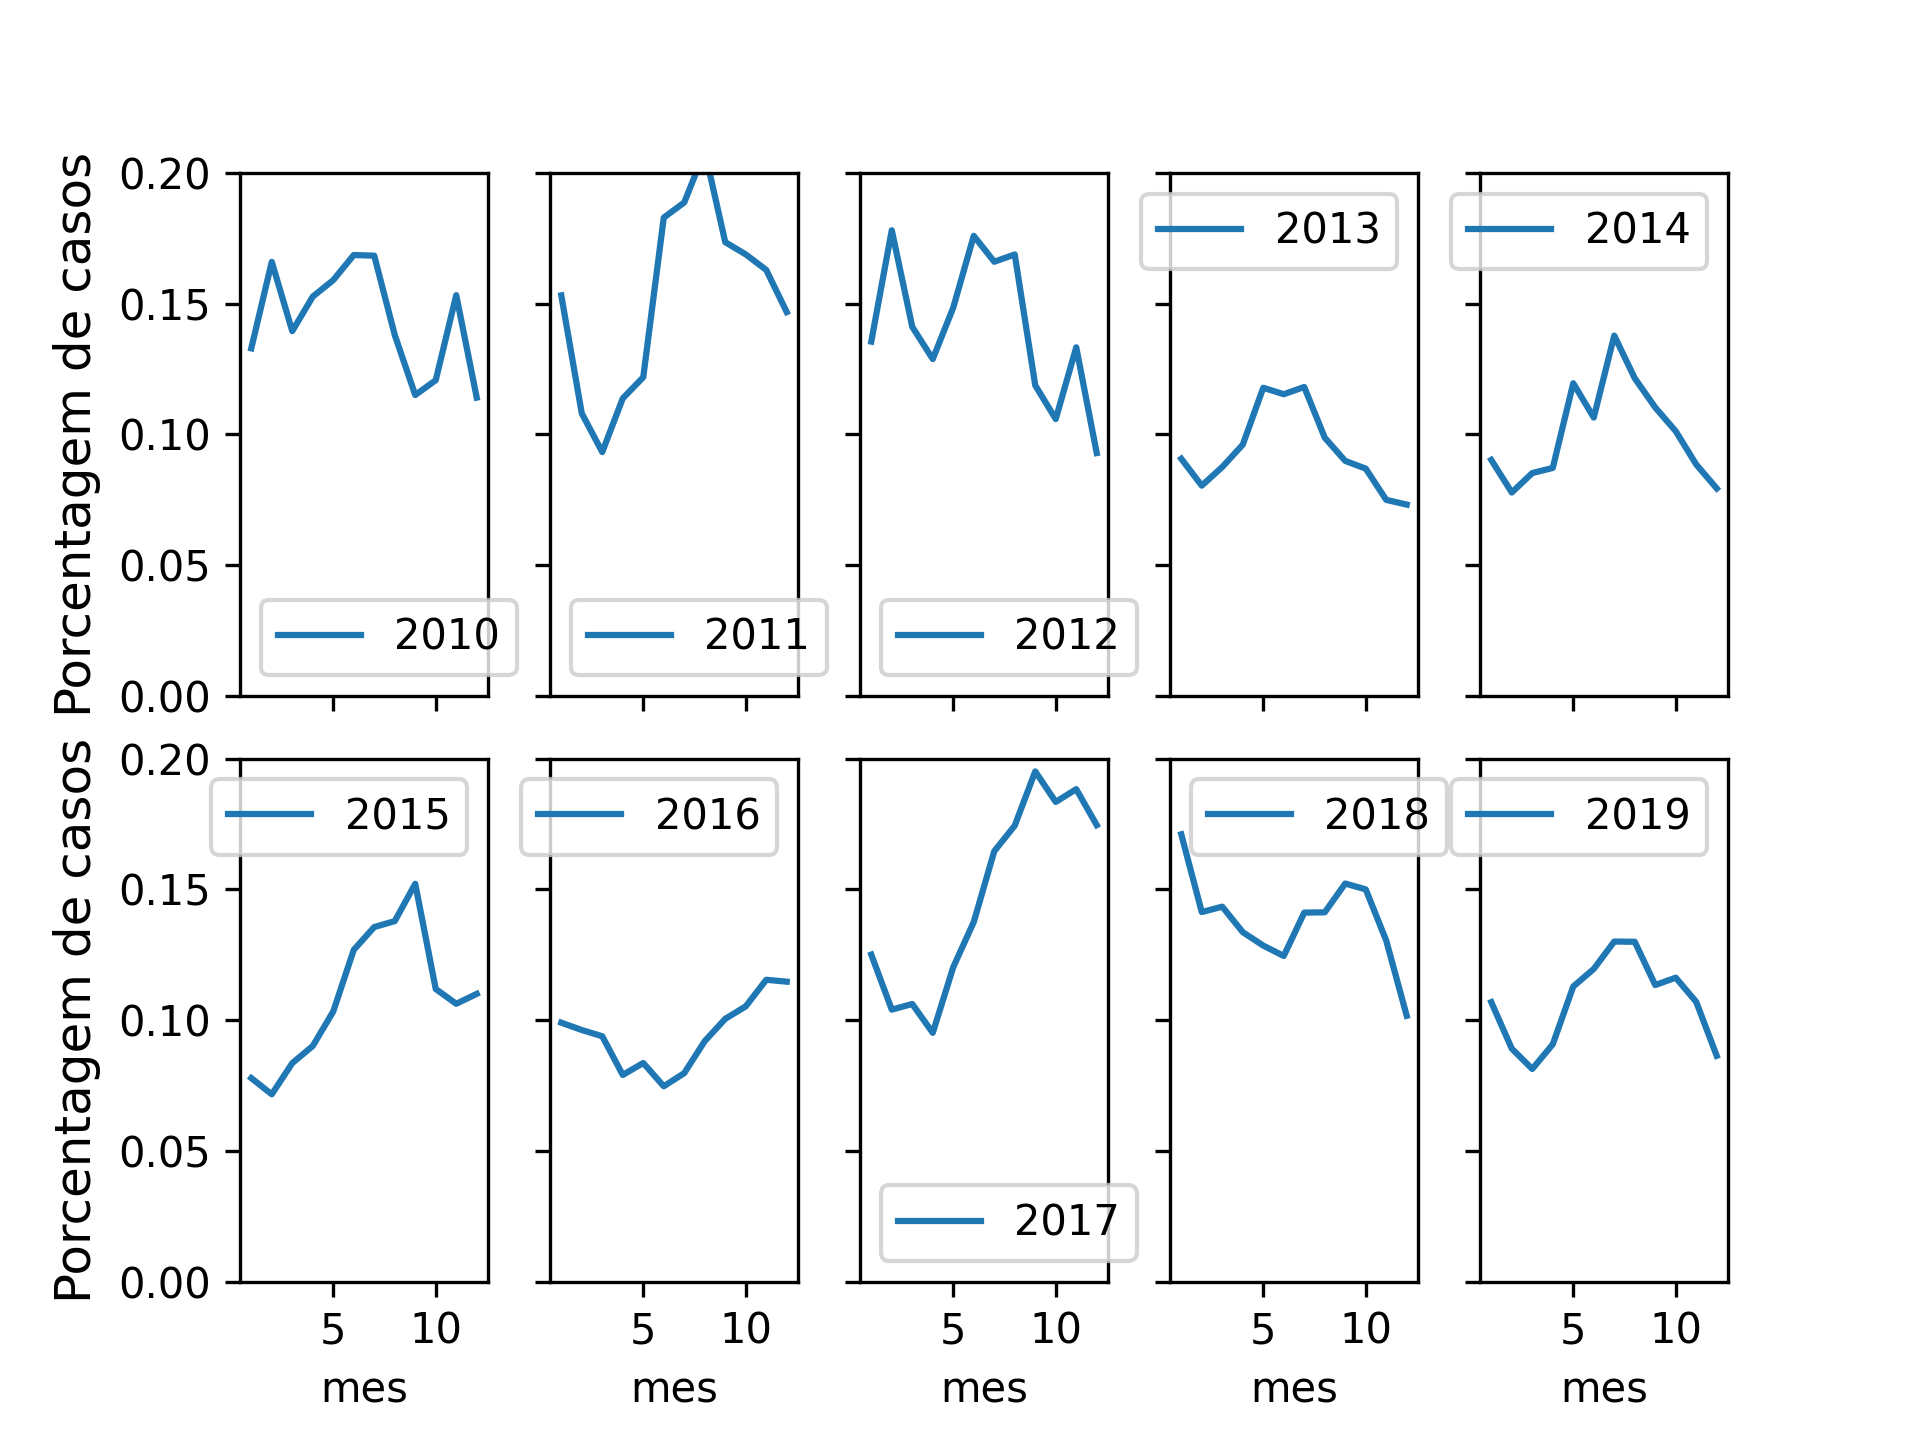
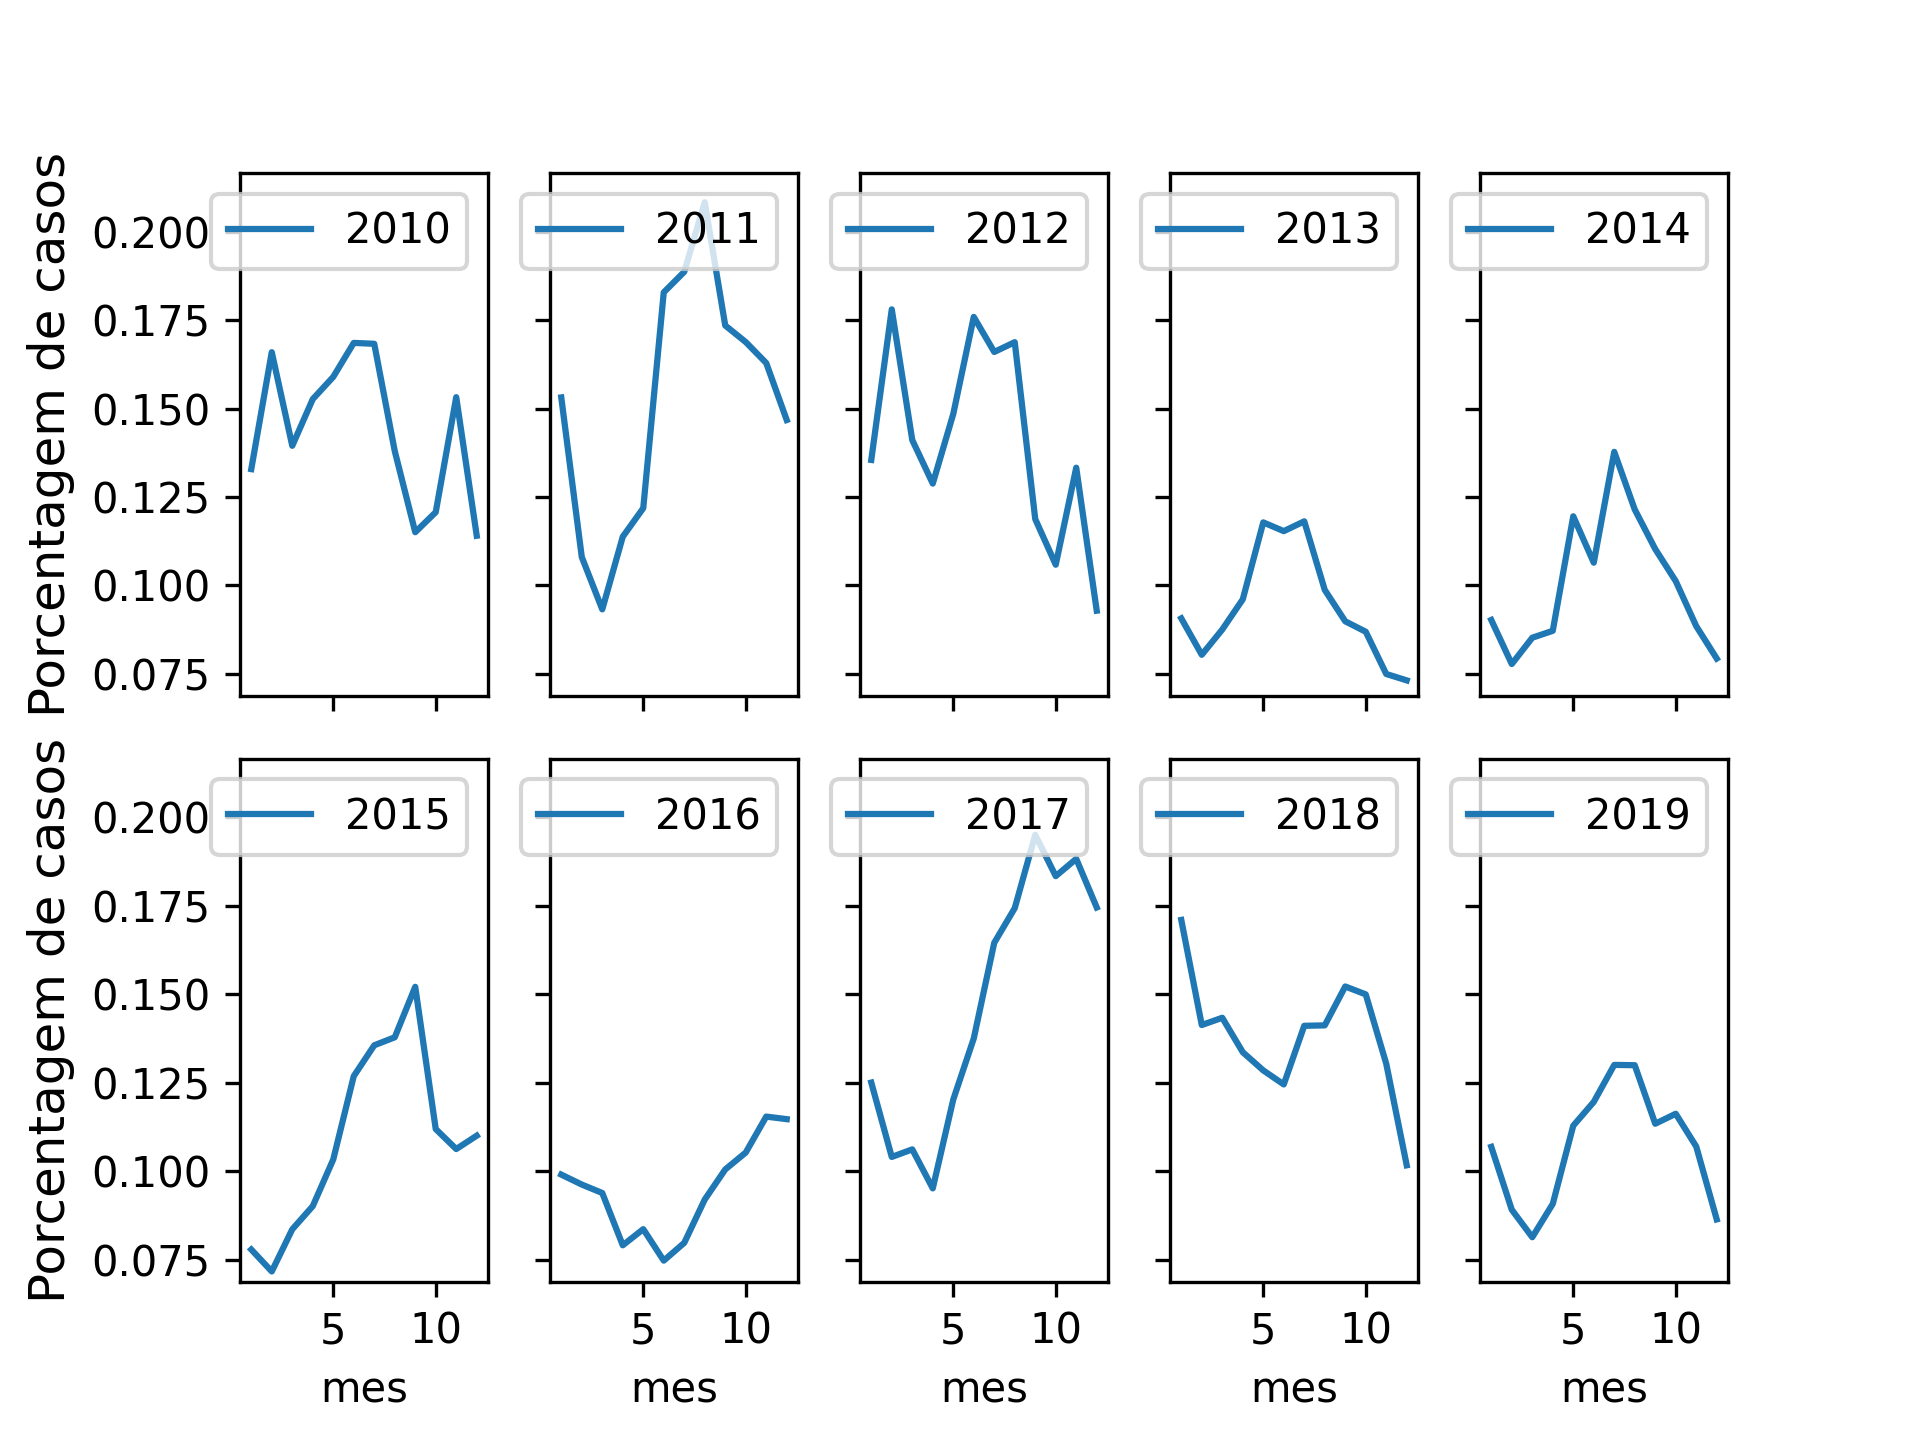
grafico com ajuste automatico do y pronto

diff --git a/manipulacao_dados.py b/manipulacao_dados.py
@@ -134,7 +134,10 @@ def plot_graficos(tabela_plot):
         ax9,
         ax10,
     ]:  # Ajustar o range dos eixos-y de todos os gráficos, para uniformizar
-        plt.setp(ax, ylim=(0, 0.2))
+        itens = [str(i)for i in range(2010,2020)] #lista para pegar apenas itens corretos
+        numero_maximo = tabela_plot[itens].max().max()
+        valor_minimo = tabela_plot[itens].min().min()
+        plt.setp(ax, ylim=(valor_minimo-(valor_minimo/25),numero_maximo+(numero_maximo/25)))
 
     plt.savefig(
         "grafico.png", dpi=300, format="png", facecolor="white"
@@ -143,9 +146,9 @@ def plot_graficos(tabela_plot):
 
 
 def matriz_covariancia(df):
-    df["mes"] = minmax_norm(df, "mes")
+    df["mes"] = normalizar(df, "mes")
     for i in range(2010, 2020):
-        df[str(i)] = minmax_norm(df, str(i))
+        df[str(i)] = normalizar(df, str(i))
     print("\nMatriz normalizada\n")
     print(df)
     print("\nMatriz de covariancia.\n")
@@ -159,7 +162,7 @@ def matriz_covariancia(df):
     plt.show()
 
 
-def minmax_norm(df, coluna):
+def normalizar(df, coluna):
     return (df[coluna] - df[coluna].mean()) / df[coluna].std()
 
 
